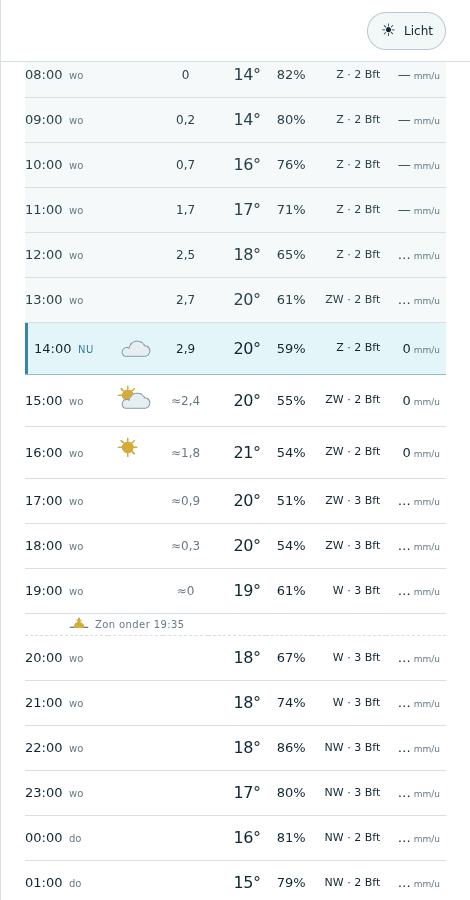
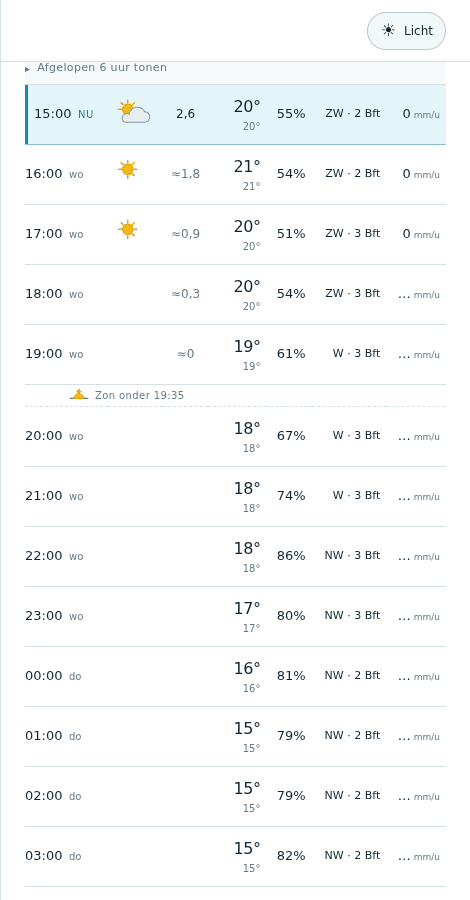
U4: LOG, screenshots (historie in/uitgeklapt), UV-herkalibratie in docs

diff --git a/.dev/tracks/u4-urenoverzicht/LOG.md b/.dev/tracks/u4-urenoverzicht/LOG.md
@@ -100,3 +100,48 @@ Desktop-overzicht: `desktop-urenoverzicht.png`; kaartlabel:
   temperatuurlabelframes vielen buiten de kortere spans. Teruggedraaid.
 - Poging 2 (huidig): de ingest splitst uurvelden in dagdelen van 24 leads
   (`-l1-24`, `-l25-48`); de clientregel blijft ongemoeid. Synthgen spiegelt dat.
+- e2e-3 (dagdelen): desktop groen (passief 775.345 B, warm 0 B), Fast 3G
+  832.424 B. e2e-4 (historie laden bij zicht): desktop 785.236 B en 4G
+  790.904 B groen, Fast 3G 831.417 B.
+- Uitsplitsing per bestand (eigen meetscript, zelfde synthdata, main-build
+  ed05b51 tegen de mijne, Fast-3G-profiel): historiechunks ≈ 96 kB (op een
+  telefoon staan de eerste tabelrijen al in beeld), dagdeel 2 ≈ 91 kB
+  (passief tot nu+24 u liep over dagdeel 1 heen), straling ≈ 36 kB, UV +15 kB.
+
+## 2026-09-23 13:35Z — ontwerpcorrecties op bytes, merge main
+
+- **Historie ingeklapt** achter een kopregel "Afgelopen 6 uur tonen" (commit
+  36e…; zie `historie-ingeklapt.png`, `historie-uitgeklapt.png`). De nu-rij
+  staat daardoor bovenaan het zichtbare deel van de tabel; op mobiel hoef je
+  niet eerst 6 verleden-uren door te scrollen, en historie kost bytes pas
+  na een tik. Uitgeklapt: getinte rijen, UV = KNMI-analyse, regen alleen
+  binnen de 3 u RTCOR-historie.
+- **Passieve horizon 18 u.** De oude tabel vroeg +24 u, maar de run-
+  verankerde data reikte tot R+24 ≈ nu+17…20 u. 18 u is dus gelijkwaardig en
+  blijft meestal binnen dagdeel 1. Verdere rijen laden via L2 bij scroll.
+- Merge main (U2 locatie, U5 gevoelstemperatuur): alleen het tabelblok in
+  App.tsx conflicteerde; ForecastTable neemt U5's weergave over (gevoel
+  groot, luchttemp klein, geen switch). U5's `feels_like_c`-body zit in de
+  gedeelde decoder (alleen de aanroep bleef). `cargo fmt` reflowt één assert
+  in U5's test; main zelf is daar niet fmt-schoon (rustfmt --check op
+  main:pipeline.rs → exit 1).
+- Gates op de gemergde boom (f2e31e5 + docs):
+  `cargo fmt --all -- --check` → FMT-EXIT 0; `cargo clippy --workspace --
+  -D warnings` → CLIPPY-EXIT 0; `cargo test --workspace` → CARGO-TEST-EXIT 0
+  (54 passed); Cargo.lock == main, dus geen `nix flake check` nodig.
+  `pnpm typecheck` 0; `pnpm test` 110/110.
+- e2e-5 (gemergde boom), 5/6 groen: passief desktop **590.306 B**, 4G
+  **600.560 B**, Fast 3G **631.385 B** (budget 800.000; main-build op
+  dezelfde synthdata 547.578 B desktop). Warm 0 B, tweede klik 0 requests,
+  manifest-refresh 0 chunkrequests. Eén fout: 4G warm TTFR 4.133,6 ms tegen
+  een grens van 3.500. De host stond op load average 42 (Chromium-e2e van andere
+  tracks tegelijk; fps 20 tegen 45–58 in docs/perf.md). Herhaling volgt op
+  een rustige host.
+- Tweede live daemonrun (dagdelen): `DAEMON-EXIT: 0`; hoofdrun 10Z uit cache
+  (0 B, 38,5 s decode), historierun 06Z 4 leden 68.819.530 B. Dat bevestigt
+  de cachemisser. UV-herkalibratie op deze data (07–13Z, historie 06Z):
+  dezelfde p = 0,35 en k = 0,84, RMSE 0,295.
+- MIP-9 (regenkans) draft geschreven met bronnen geverifieerd via de API:
+  seamless-leden (al gedownload), seamless-kansen 7,7–8,4 MB, HARMONIE EPS
+  P2a gelagd (per uurrun 000 + 5 roterende leden, leads 0–60, ≈ 1,9 GB/run,
+  neerslag als 181+184+201).

diff --git a/docs/fields.md b/docs/fields.md
@@ -155,7 +155,9 @@ UTC, n ≈ 62.000 cel-uren, straling uit HARMONIE-runs 05Z (historie) en 10Z:
 | lineair (p = 1, k = 1) | 0,481 | −0,120 | 0,835 |
 | **gefit p = 0,35, k = 0,84** | **0,269** | **+0,004** | **0,438** |
 
-Dit is één ochtend in september met gebroken bewolking. De fit is
+Een tweede run om 13:29Z, met historierun 06Z en het uur 13:00 erbij (n ≈
+71.000), gaf dezelfde optimale p en k met RMSE 0,295 (lineair 0,503). Dit is
+wel nog steeds één septemberdag met gebroken bewolking. De fit is
 bruikbaar voor een "≈"-kolom, maar niet algemeen gevalideerd: lage zon,
 zomerse hoge UV en zware bewolking zijn ondervertegenwoordigd. Herkalibreer
 zodra een paar weken analyses en historiestraling naast elkaar bewaard zijn.
